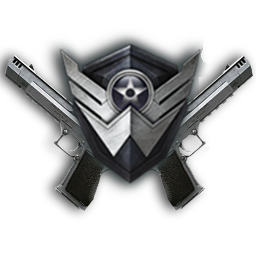
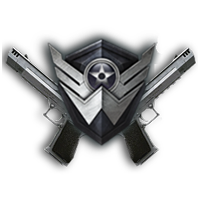
added no sig png

Changed region(s): [[0.0, 0.12, 0.99, 0.84], [0.54, 0.54, 0.63, 0.63]]

diff --git a/app/Files/node/requestHandlers.js b/app/Files/node/requestHandlers.js
@@ -277,8 +277,9 @@ console.log("Request handler 'warfaceSigData' was called.");
 					     } else {
 
 					        console.log('No document(s) found with defined "find" criteria!');
-					    	response.write("No signature found for: " + queryObject.userId);
-					    	response.end();
+
+					        noSignatureFound(response);
+					        
 					     }
 					     });
 
@@ -361,6 +362,8 @@ var upsertStat = function(userId, statName, db, callback) {
 
 
 
+
+
 var drawAndSendSignature = function(signature, stats, response) {
 
 	var html = '<html><body><canvas id="cx" width="600" height="200"></canvas></body></html>';
@@ -419,6 +422,28 @@ var drawAndSendSignature = function(signature, stats, response) {
 	});
 
 
+}
+
+
+function noSignatureFound(response){
+
+	 // attempt to send an actual image instead of base 64 stuff
+
+
+
+	
+    response.writeHead(200, {
+	      'Content-Type': 'image/png',
+	      'Access-Control-Allow-Origin' : '*',
+	      //'Content-Length': img.length
+	    });
+
+
+    fs.readFile('images/statIcons/nosig.png', function(err, squid) {
+    	var img = new Buffer(squid);
+		response.write(img);
+		response.end();
+	});
 }
 
 function drawLayerManually($c, lay, stats, $) {
